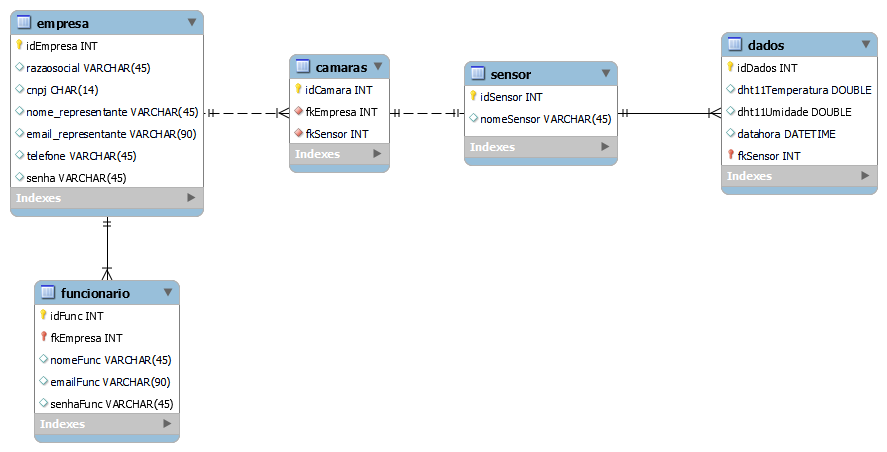
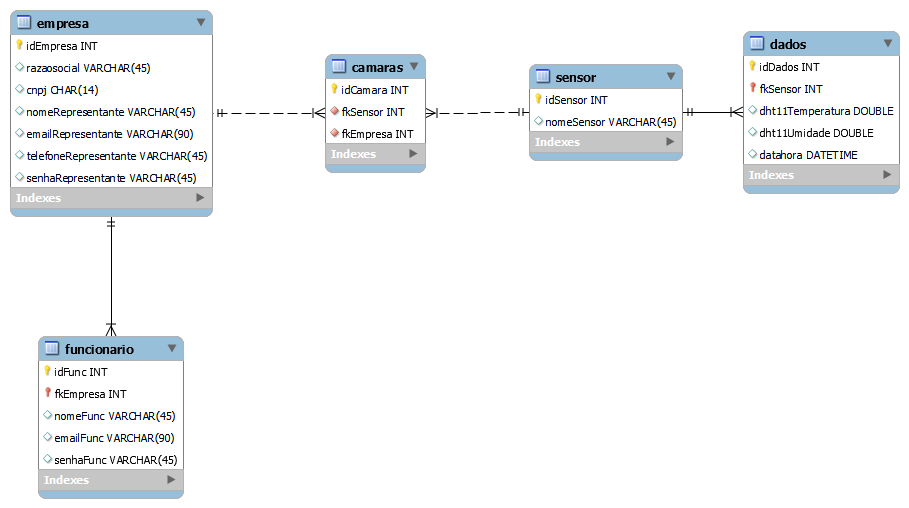
renomeações no bd e scriptJs

Changed region(s): [[0.0, 0.0, 1.0, 0.4956], [0.0304, 0.5885, 0.2131, 0.9912]]

diff --git a/front/Login-Registro/script.js b/front/Login-Registro/script.js
@@ -6,29 +6,29 @@ function cadastrarempresa(){
     var razao = inputRazao.value;
     var cnpj = inputCNPJ.value;
     var nomeRepresentante = inputRepresentante.value;
-    var emailEmpresa = inputEmail.value;
-    var telefoneEmpresa = inputTelefone.value;
-    var senhaEmpresa = inputSenha.value;
-    var confirmEmpresa = inputConfirmarSenha.value;
-    var indice_arroba = emailEmpresa.indexOf('@')
+    var emailRepresentante = inputEmail.value;
+    var telefoneRepresentante = inputTelefone.value;
+    var senhaRepresentante = inputSenha.value;
+    var confirmRepresentante = inputConfirmarSenha.value;
+    var indice_arroba = emailRepresentante.indexOf('@')
     var validate;
    
 
-    for (var i = 0; i < senhaEmpresa.length && upperValidate == false; i++) {
-        if (senhaEmpresa[i] == senhaEmpresa[i].toUpperCase()) {
+    for (var i = 0; i < senhaRepresentante.length && upperValidate == false; i++) {
+        if (senhaRepresentante[i] == senhaRepresentante[i].toUpperCase()) {
             upperValidate = true;
         }
     }
     
-    for (var i = 0; i < senhaEmpresa.length && lowerValidate == false ; i++) {
-        if (senhaEmpresa[i] == senhaEmpresa[i].toLowerCase()) {
+    for (var i = 0; i < senhaRepresentante.length && lowerValidate == false ; i++) {
+        if (senhaRepresentante[i] == senhaRepresentante[i].toLowerCase()) {
             lowerValidate = true;
         }
     }
 
     var validNumbers = '0123456789'
-    for (var i = 0; i < senhaEmpresa.length && numberValidate == false ; i++) {
-        if (validNumbers.indexOf(senhaEmpresa[i]) >= 0) {
+    for (var i = 0; i < senhaRepresentante.length && numberValidate == false ; i++) {
+        if (validNumbers.indexOf(senhaRepresentante[i]) >= 0) {
             numberValidate = true;
         }
     }
@@ -39,20 +39,20 @@ function cadastrarempresa(){
     } else{
         spanEmail.innerHTML=``
     }
-    if(senhaEmpresa.length < 8 || upperValidate == false || lowerValidate == false || numberValidate == false){
+    if(senhaRepresentante.length < 8 || upperValidate == false || lowerValidate == false || numberValidate == false){
         validate = false
         spanSenha.innerHTML=`Senha fraca, sua senha deve conter no minímo 8 digitos, 1 letra maiúscula, 1 letra minúscula e 1 número`
     } else{
         spanSenha.innerHTML=``
     } 
-    if(confirmEmpresa != senhaEmpresa){
+    if(confirmRepresentante != senhaRepresentante){
         validate = false
         spanConfirmarSenha.innerHTML=`A confirmação de senha não corresponde`
     } else {
         spanConfirmarSenha.innerHTML=``
     } 
     
-    if (indice_arroba >= 0 && senhaEmpresa.length >=8 && confirmEmpresa == senhaEmpresa && upperValidate == true && lowerValidate == true && numberValidate == true){
+    if (indice_arroba >= 0 && senhaRepresentante.length >=8 && confirmRepresentante == senhaRepresentante && upperValidate == true && lowerValidate == true && numberValidate == true){
         validate = true;
         spanRealizado.innerHTML = `Cadastro Realizado`
         window.location.href = "./Login.html"

diff --git a/front/Login-Registro/CadastroEmp.html b/front/Login-Registro/CadastroEmp.html
@@ -12,21 +12,21 @@
             <h1>Cadastrar Empresa</h1>
             <div class="inputContainer">
                 <span>Razão Social:</span>
-                <input id="inputRazao" type="text" placeholder="Razão Social">
+                <input id="inputRazao" type="text" placeholder="Razão Social" maxlength="45">
                 <span>CNPJ:</span>
-                <input id="inputCNPJ" type="text" placeholder="CNPJ">
+                <input id="inputCNPJ" type="text" placeholder="CNPJ" maxlength="14">
                 <span>Nome:</span>
-                <input id="inputRepresentante" type="text" placeholder="Nome do Representante">
+                <input id="inputRepresentante" type="text" placeholder="Nome do Representante" maxlength="45">
                 <span>E-mail:</span>
-                <input id="inputEmail" type="text" placeholder="E-mail do Representante">
+                <input id="inputEmail" type="text" placeholder="E-mail do Representante" maxlength="90">
                 <span id="spanEmail"></span>
                 <span>Telefone:</span>
-                <input id="inputTelefone" type="text" placeholder="Telefone do Representante">
+                <input id="inputTelefone" type="text" placeholder="Telefone do Representante" maxlength="45">
                 <span>Senha:</span>
-                <input id="inputSenha" type="text" placeholder="Senha">
+                <input id="inputSenha" type="text" placeholder="Senha" maxlength="45">
                 <span id="spanSenha"></span>
                 <span>Confirmar Senha:</span>
-                <input id="inputConfirmarSenha" type="password" placeholder="Confirmar Senha">
+                <input id="inputConfirmarSenha" type="password" placeholder="Confirmar Senha" maxlength="45">
                 <span id="spanConfirmarSenha"></span>
             </div>
             <div class="btnContainer">

diff --git a/front/Login-Registro/CadastroFunc.html b/front/Login-Registro/CadastroFunc.html
@@ -12,15 +12,15 @@
             <h1>Cadastrar Funcionario</h1>
             <div class="inputContainer">
                 <span>Nome:</span>
-                <input id="inputNomeFunc" type="text" placeholder="Nome do Funcionario">
+                <input id="inputNomeFunc" type="text" placeholder="Nome do Funcionario" maxlength="45">
                 <span>E-mail:</span>
-                <input id="inputEmailFunc" type="text" placeholder="E-mail do Funcionario">
+                <input id="inputEmailFunc" type="text" placeholder="E-mail do Funcionario" maxlength="90">
                 <span id="spanEmail"></span>
                 <span>Senha</span>
-                <input id="inputSenhaFunc" type="password" placeholder="Senha">
+                <input id="inputSenhaFunc" type="password" placeholder="Senha" maxlength="45">
                 <span id="spanSenha"></span>
                 <span>Confirmar Senha</span>
-                <input id="inputConfirmFunc" type="password" placeholder="Confirmar Senha">
+                <input id="inputConfirmFunc" type="password" placeholder="Confirmar Senha" maxlength="45">
                 <span id="spanConfirmarSenha"></span>
             </div>
             <div class="btnContainer">

diff --git a/front/Login-Registro/Login.html b/front/Login-Registro/Login.html
@@ -12,9 +12,9 @@
             <h1>Entrar</h1>
             <div class="inputContainer">
                 <span>E-mail</span>
-                <input id="inputEmail" type="text" placeholder="E-mail">
+                <input id="inputEmail" type="text" placeholder="E-mail" maxlength="90">
                 <span>Senha</span>
-                <input id="inputSenha" type="password" placeholder="Senha">
+                <input id="inputSenha" type="password" placeholder="Senha" maxlength="45">
             </div><br>
             <button class="btn" onclick="entrar()">Entrar</button><br>
             <span id="spanEntrar"></span>

diff --git a/front/site dashboard/index.html b/front/site dashboard/index.html
@@ -47,7 +47,7 @@
               <div class="navList">
                 <p class="tituloNav">Mais graficos</p>
                 <ul>
-                    <li onclick="openModal()"><p>Media diaria</p></li>
+                    <li onclick="openModal()"><p class="btnMedia">Média Semanal </p></li>
                     <li><p>Media mensal</p></li>
                 </ul>
         

diff --git a/front/site dashboard/style.css b/front/site dashboard/style.css
@@ -449,3 +449,6 @@ gap: 1rem;
 
 }
 
+.btnMedia {
+    background-color: #3BB502;
+}
